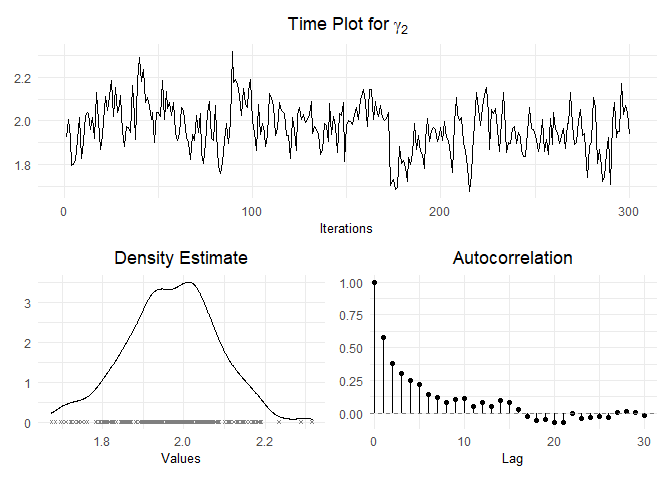
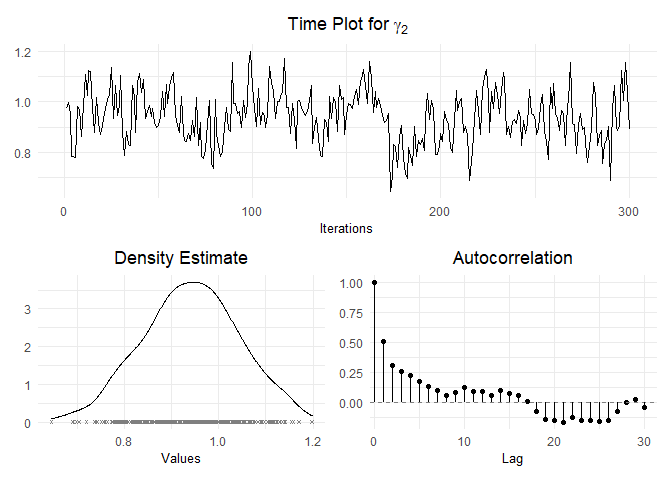
updated toy_data and readme

diff --git a/README.md b/README.md
@@ -26,9 +26,10 @@ themselves normally distributed with prior mean 0 and *hyperparameters*
 
 In the following examples the built-in simulated `toy_data` is used,
 which consists of a column `y` representing a vector of observed values
-and the explanatory variables `x1`, `x2`, `z1` and `z2`. Here, all
-explanatory variables predict the mean of `y` whereas only the latter
-two model the variance.
+and the explanatory variables `x1`, `x2`, `z1` and `z2`. The data is
+constructed according to the mathematical model in the previous section,
+where all explanatory variables predict the mean of `y` and only the
+latter two model the variance.
 
 ``` r
 library(asp21bridge)
@@ -37,11 +38,11 @@ head(toy_data)
 ##       y     x1    x2    z1    z2
 ##   <dbl>  <dbl> <dbl> <dbl> <dbl>
 ## 1 10.9  -0.207 0.194  5.41  2.62
-## 2  6.79  1.28  1.42   4.53  3.10
-## 3  9.36  2.08  0.891  5.07  4.64
+## 2  6.91  1.28  1.42   4.53  3.10
+## 3  9.40  2.08  0.891  5.07  4.64
 ## 4 10.5  -1.35  0.985  4.50  2.12
-## 5  5.76  1.43  1.84   4.17  3.12
-## 6  8.47  1.51  2.56   5.17  4.36
+## 5  5.83  1.43  1.84   4.17  3.12
+## 6  8.66  1.51  2.56   5.17  4.36
 ```
 
 ## Sampling Process
@@ -75,27 +76,27 @@ summary(fit, type = "mcmc_ridge")
 ## lslm(location = y ~ ., scale = ~z1 + z2, data = ., light = FALSE)
 ## 
 ## Pearson residuals:
-##    Min. 1st Qu.  Median    Mean 3rd Qu.    Max. 
-## -3.1070 -0.3511  0.1610  0.0505  0.5761  2.8390 
+##     Min.  1st Qu.   Median     Mean  3rd Qu.     Max. 
+## -3.29800 -0.38660  0.11770 -0.01354  0.57410  2.54600 
 ## 
 ## Location coefficients (identity link function):
-##             Mean      2.5%       50%  97.5%
-## beta_0  0.002429 -0.002857  0.002419  0.009
-## beta_1 -2.000110 -2.000349 -2.000107 -2.000
-## beta_2 -1.000220 -1.000688 -1.000213 -1.000
-## beta_3  0.999693  0.998893  0.999689  1.000
-## beta_4  2.000181  2.000036  2.000181  2.000
+##              Mean       2.5%        50%  97.5%
+## beta_0  0.0005254 -0.1298878  0.0020753  0.147
+## beta_1 -2.0015219 -2.0071807 -2.0015440 -1.996
+## beta_2 -1.0042277 -1.0175582 -1.0042374 -0.992
+## beta_3  1.0013344  0.9815021  1.0010179  1.019
+## beta_4  2.0080190  2.0022642  2.0079843  2.014
 ## 
 ## Scale coefficients (log link function):
 ##            Mean    2.5%     50%  97.5%
-## gamma_0  0.1455 -1.2174  0.2008  1.135
-## gamma_1 -2.0391 -2.2171 -2.0469 -1.783
-## gamma_2  2.0093  1.8266  2.0218  2.162
+## gamma_0  0.7107 -0.5013  0.7849  1.489
+## gamma_1 -1.1340 -1.2722 -1.1628 -0.917
+## gamma_2  0.9822  0.8154  0.9734  1.149
 ## 
 ## Residual degrees of freedom: 42 
-## Log-likelihood: 131.3 
-## AIC: -246.6 
-## BIC: -231.3
+## Log-likelihood: 32.28 
+## AIC: -48.57 
+## BIC: -33.27
 ```
 
 A more comprehensive list of the estimated parameter values is provided
@@ -106,16 +107,16 @@ summary_complete(fit)
 ## # A tibble: 10 x 6
 ##    Parameter `5% Quantile` `Posterior Mean` `Posterior Median` `95% Quantile`
 ##    <chr>             <dbl>            <dbl>              <dbl>          <dbl>
-##  1 beta_0         -0.00212          0.00243            0.00242        0.00719
-##  2 beta_1         -2.00            -2.00              -2.00          -2.00   
-##  3 beta_2         -1.00            -1.00              -1.00          -1.00   
-##  4 beta_3          0.999            1.00               1.00           1.00   
-##  5 beta_4          2.00             2.00               2.00           2.00   
-##  6 gamma_0        -0.982            0.145              0.201          0.954  
-##  7 gamma_1        -2.20            -2.04              -2.05          -1.80   
-##  8 gamma_2         1.86             2.01               2.02           2.15   
-##  9 tau^2           0.961            3.12               2.22           7.75   
-## 10 xi^2            1.08             5.11               3.11          13.6    
+##  1 beta_0           -0.108         0.000525            0.00208          0.117
+##  2 beta_1           -2.01         -2.00               -2.00            -2.00 
+##  3 beta_2           -1.01         -1.00               -1.00            -0.994
+##  4 beta_3            0.986         1.00                1.00             1.02 
+##  5 beta_4            2.00          2.01                2.01             2.01 
+##  6 gamma_0          -0.339         0.711               0.785            1.44 
+##  7 gamma_1          -1.26         -1.13               -1.16            -0.935
+##  8 gamma_2           0.834         0.982               0.973            1.13 
+##  9 tau^2             0.967         3.13                2.23             7.80 
+## 10 xi^2              0.457         2.14                1.30             5.75 
 ## # ... with 1 more variable: Standard Deviation <dbl>
 ```
 
@@ -143,36 +144,53 @@ summary_complete(fit) %>%
   dplyr::filter(stringr::str_detect(Parameter, pattern = "beta|gamma")) %>%
   dplyr::mutate(
     mcmc = summary_complete(fit$mcmc)$`Posterior Mean`,
-    mle = c(coef(fit)$location, coef(fit)$scale)
+    mle = c(coef(fit)$location, coef(fit)$scale),
+    truth = c(0, -2, -1, 1, 2, 0, -1, 1)
   )
-## # A tibble: 8 x 4
-##   Parameter mcmc_ridge     mcmc      mle
-##   <chr>          <dbl>    <dbl>    <dbl>
-## 1 beta_0       0.00243  0.00225  0.00184
-## 2 beta_1      -2.00    -2.00    -2.00   
-## 3 beta_2      -1.00    -1.00    -1.00   
-## 4 beta_3       1.00     1.00     1.00   
-## 5 beta_4       2.00     2.00     2.00   
-## 6 gamma_0      0.145    0.920    1.13   
-## 7 gamma_1     -2.04    -2.16    -2.29   
-## 8 gamma_2      2.01     1.96     2.07
+## # A tibble: 8 x 5
+##   Parameter mcmc_ridge     mcmc     mle truth
+##   <chr>          <dbl>    <dbl>   <dbl> <dbl>
+## 1 beta_0      0.000525 -0.00369 -0.0217     0
+## 2 beta_1     -2.00     -2.00    -2.00      -2
+## 3 beta_2     -1.00     -1.00    -1.00      -1
+## 4 beta_3      1.00      1.00     1.00       1
+## 5 beta_4      2.01      2.01     2.01       2
+## 6 gamma_0     0.711     1.07     1.44       0
+## 7 gamma_1    -1.13     -1.17    -1.31      -1
+## 8 gamma_2     0.982     0.933    0.999      1
 ```
 
 The estimates for *β*<sub>1</sub> up to *β*<sub>4</sub> are identical in
-the three models and coincide with the true data generating values. This
-behaviour is somewhat expected since the *β* vector is drawn from a
-closed form multivariate normal distribution with independent samples
-across iterations of the MCMC sampler.
+the three models and almost coincide with the true data generating
+values. This behaviour is somewhat expected, since the *β* vector is
+drawn from a closed form multivariate normal distribution with
+independent samples across iterations of the MCMC sampler.
 
 The results for the scale parameter *γ* show a greater variation between
-the models and are therefore more interesting to analyze. The Markov
-Chain Monte Carlo samples based on the Metropolis - Hastings algorithm
-implemented in the `gibbs_sampler()` function are strongly correlated,
-even though the acceptance rate of the proposed values is reasonable:
+the models and are therefore more interesting to analyze. The Maximum
+Likelihood approach is able to recover the true / data generating value
+of *γ*<sub>2</sub>, while the MCMC sampler with Ridge penalty performs
+best for estimating *γ*<sub>1</sub>. All three models fail to identify
+the correct intercept parameter *γ*<sub>0</sub>, which, however, is
+often of minor interest.
+
+Simulations across different data sets and sample sizes show similar
+patterns: If the data is generated according to the mathematical model
+introduced in the first section, i.e. the estimation model using Maximum
+Likelihood is correctly specified, the `mle` and the `mcmc_ridge`
+estimates tend to be closest to the true values. If, however, the
+underlying model used for simulation deviates from the Gaussian
+location-scale regression model, the `mle` results are, unsurprisingly,
+worse than both of the more flexible MCMC methods.
+
+The Markov Chain Monte Carlo samples for *γ* based on the Metropolis -
+Hastings algorithm implemented in the `gibbs_sampler()` function are
+strongly correlated, even though the acceptance rate of the proposed
+values is reasonable:
 
 ``` r
 fit$mcmc_ridge$acceptance_rate
-## [1] 0.43
+## [1] 0.432
 ```
 
 This value of roughly 43% indicates that the variance of the proposal
@@ -243,8 +261,8 @@ samples$scale[, 3, drop = FALSE] %>%
 <img src="man/figures/README-unnamed-chunk-11-1.png" width="100%" />
 
 Even a thinning factor of 30, i.e. only every 30th observation is kept
-in the sample, does not get rid of the autocorrelation. The posterior
-density seems to be approximately normal though and the time plot
+in the sample, does not get rid of the autocorrelation. Yet, the
+posterior density seems to be approximately normal and the time plot
 indicates a decent exploration of the posterior space.
 
 These findings serve as a great starting point for a more in-depth
